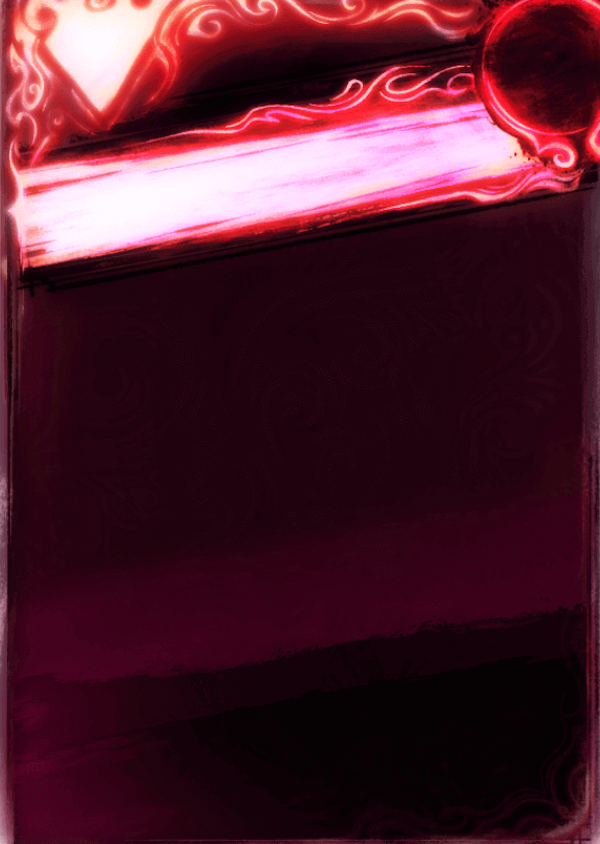
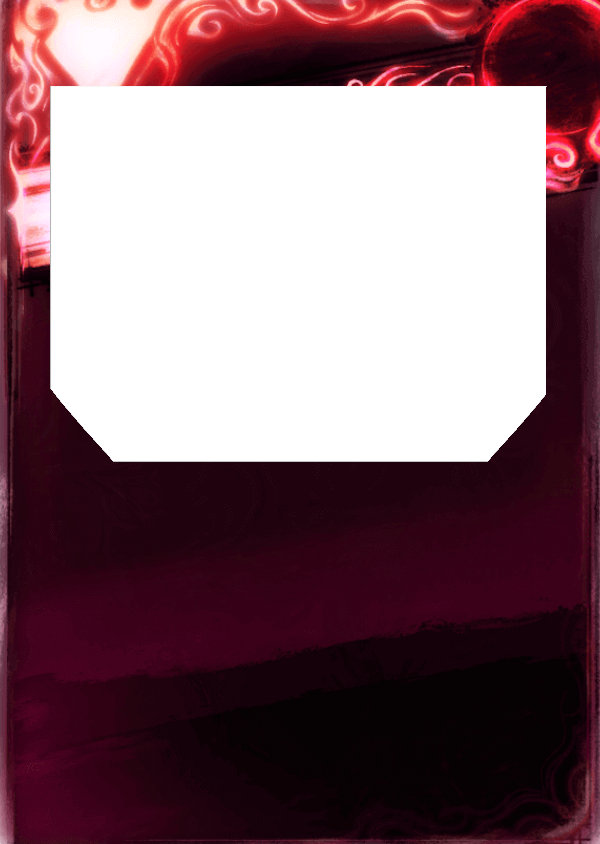
fix ego card frame

diff --git a/Ruina2Code/Cards/EGO/EGOCardPool.cs b/Ruina2Code/Cards/EGO/EGOCardPool.cs
@@ -1,5 +1,6 @@
 using BaseLib.Abstracts;
 using Godot;
+using MegaCrit.Sts2.Core.Assets;
 using Ruina2.Ruina2Code.Extensions;
 
 namespace Ruina2.Ruina2Code.Cards.EGO;
@@ -16,15 +17,15 @@ public class EGOCardPool : CustomCardPoolModel
     They are applied as a shader onto an already colored image,
     so it may take some experimentation to find a color you like.
     Generally they should be values between 0 and 1. */
-    public override float H => 0.93f; //Hue; changes the color.
-    public override float S => 0.97f; //Saturation
-    public override float V => 0.27f; //Brightness
+    public override float H => 1.0f; //Hue; changes the color.
+    public override float S => 1.0f; //Saturation
+    public override float V => 1.0f; //Brightness
 
     //Alternatively, leave these values at 1 and provide a custom frame image.
-    // public override Texture2D CustomFrame(CustomCardModel card)
-    // {
-    //     return PreloadManager.Cache.GetTexture2D("cards/frame.png".ImagePath());
-    // }
+    public override Texture2D CustomFrame(CustomCardModel card)
+    {
+        return PreloadManager.Cache.GetTexture2D("cards/frame.png".ImagePath());
+    }
 
     //Color of small card icons
     public override Color DeckEntryCardColor => Color.Color8(69, 2, 30);

diff --git a/Ruina2Code/Cards/EGO/EGOCard.cs b/Ruina2Code/Cards/EGO/EGOCard.cs
@@ -7,5 +7,5 @@ namespace Ruina2.Ruina2Code.Cards.EGO;
 public abstract class EGOCard(int cost, CardType type, CardRarity rarity, TargetType target) :
     Ruina2Card(cost, type, rarity, target)
 {
-   
+  
 }
